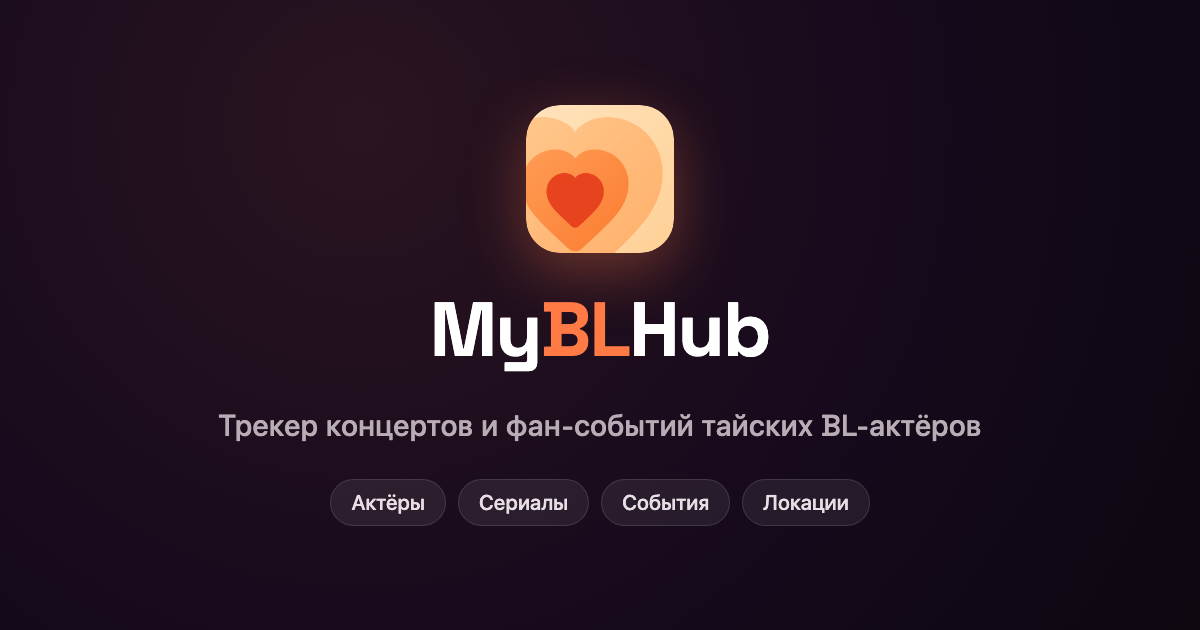
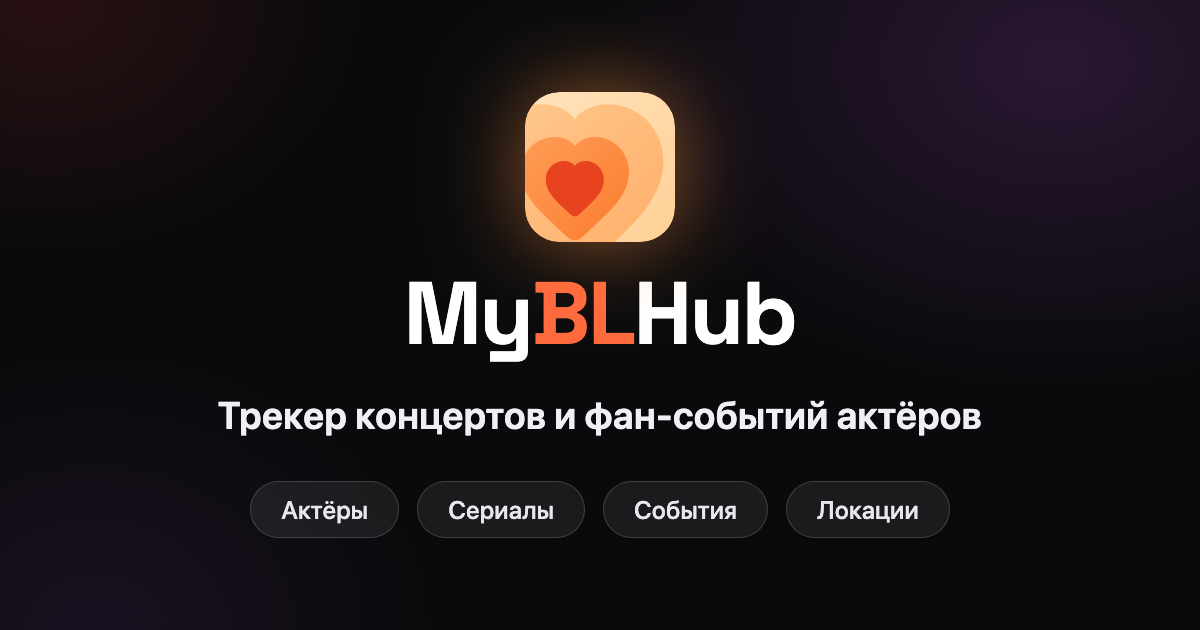
Актёры без «тайских», превью сайта без «BL»
Решение владельца: сайт про актёров и сериалы вообще, и ярлыки на людях
сужают аудиторию. «Концерты и фанмиты тайских актёров» стали «концертами
и фанмитами актёров» в обоих языках — события, вики, каталог,
юридические страницы. «Тайские» остаётся у сериалов и у страны: виза и
поездка в Таиланд никуда не делись.

Из превью ссылки на сайт убран «BL»: заголовок главной, описание,
манифест — и og-картинка, где старый текст был запечён прямо в PNG.
Перегенерирована в прежней стилистике; оранжевое «BL» в вордмарке
MyBLHub осталось — это бренд, а не ярлык.

После деплоя прогнать myblhub.com через @WebpageBot: Telegram держит
старую карточку в кэше долго.

diff --git a/src/lib/i18n/ru/events.ts b/src/lib/i18n/ru/events.ts
@@ -5,7 +5,7 @@ export const events: Dict["events"] = {
     list: {
         metaTitle: "Афиша",
         metaDescription:
-            "Афиша концертов, фанмитов и других событий тайских актёров: даты, площадки, составы.",
+            "Афиша концертов, фанмитов и других событий актёров: даты, площадки, составы.",
         eyebrow: "События",
         title: "Афиша",
         paywallFeature: "Афиша событий",
@@ -27,7 +27,7 @@ export const events: Dict["events"] = {
     calendar: {
         metaTitle: "Календарь событий",
         metaDescription:
-            "Календарь концертов и фанмитов тайских актёров, включая дни рождения и даты выхода серий.",
+            "Календарь концертов и фанмитов актёров, включая дни рождения и даты выхода серий.",
         backToEvents: "← Все события",
         title: "Календарь",
         paywallFeature: "Календарь",
@@ -57,7 +57,7 @@ export const events: Dict["events"] = {
     day: {
         metaTitle: (date: string) => `События ${date}`,
         metaDescription: (date: string) =>
-            `Концерты и фанмиты тайских актёров ${date}: расписание дня.`,
+            `Концерты и фанмиты актёров ${date}: расписание дня.`,
         metaTitleUnknown: "События дня",
         metaDescriptionUnknown: "Страница не найдена.",
         backToCalendar: "← К календарю",

diff --git a/src/lib/i18n/ru/legal.ts b/src/lib/i18n/ru/legal.ts
@@ -5,7 +5,7 @@ export const legal: Dict["legal"] = {
     about: {
       metaTitle: "О нас",
       metaDescription:
-        "MyBLHub — трекер концертов и фан-событий тайских актёров: афиша, профили артистов и сериалов, избранное и статусы просмотра.",
+        "MyBLHub — трекер концертов и фан-событий актёров: афиша, профили артистов и сериалов, избранное и статусы просмотра.",
     },
     terms: {
       metaTitle: "Условия использования",
@@ -131,7 +131,7 @@ export const legal: Dict["legal"] = {
 
       whatTitle: "Что это за сайт?",
       whatText:
-        "MyBLHub — трекер концертов и фан-событий тайских актёров: расписание событий, профили артистов и сериалов, избранное и статусы просмотра.",
+        "MyBLHub — трекер концертов и фан-событий актёров: расписание событий, профили артистов и сериалов, избранное и статусы просмотра.",
 
       favouritesTitle: "Как добавить кого-то в избранное?",
       favouritesText:

diff --git a/src/lib/i18n/en/events.ts b/src/lib/i18n/en/events.ts
@@ -3,7 +3,7 @@ export const events = {
     list: {
         metaTitle: "Events",
         metaDescription:
-            "Concerts, fan meets and other events with Thai actors: dates, venues and line-ups.",
+            "Concerts, fan meets and other events with the actors: dates, venues and line-ups.",
         eyebrow: "Events",
         title: "What's on",
         paywallFeature: "The event feed",
@@ -31,7 +31,7 @@ export const events = {
     calendar: {
         metaTitle: "Events calendar",
         metaDescription:
-            "A calendar of concerts and fan meets with Thai actors, birthdays and episode air dates included.",
+            "A calendar of the actors' concerts and fan meets, birthdays and episode air dates included.",
         backToEvents: "← All events",
         title: "Calendar",
         paywallFeature: "The calendar",
@@ -62,7 +62,7 @@ export const events = {
     day: {
         metaTitle: (date: string) => `Events on ${date}`,
         metaDescription: (date: string) =>
-            `Concerts and fan meets with Thai actors on ${date}: the schedule for the day.`,
+            `Concerts and fan meets with the actors on ${date}: the schedule for the day.`,
         metaTitleUnknown: "Events of the day",
         metaDescriptionUnknown: "Page not found.",
         backToCalendar: "← Back to the calendar",

diff --git a/src/lib/i18n/en/legal.ts b/src/lib/i18n/en/legal.ts
@@ -6,7 +6,7 @@ export const legal = {
     about: {
       metaTitle: "About",
       metaDescription:
-        "MyBLHub — a tracker of concerts and fan events for Thai actors: the event feed, artist and series profiles, favourites and watch statuses.",
+        "MyBLHub — a tracker of the actors' concerts and fan events: the event feed, artist and series profiles, favourites and watch statuses.",
     },
     terms: {
       metaTitle: "Terms of use",
@@ -132,7 +132,7 @@ export const legal = {
 
       whatTitle: "What is this site?",
       whatText:
-        "MyBLHub is a tracker of concerts and fan events for Thai actors: a schedule of events, artist and series profiles, favourites and watch statuses.",
+        "MyBLHub is a tracker of the actors' concerts and fan events: a schedule of events, artist and series profiles, favourites and watch statuses.",
 
       favouritesTitle: "How do I add someone to favourites?",
       favouritesText:

diff --git a/src/lib/i18n/ru/wiki.ts b/src/lib/i18n/ru/wiki.ts
@@ -3,7 +3,7 @@ import type { Dict } from "../en";
 export const wiki: Dict["wiki"] = {
   metaTitle: "Вики",
   metaDescription:
-    "Гайды и полезные статьи для фанатов тайских актёров: билеты, поездки, фанмиты.",
+    "Гайды и полезные статьи для фанатов актёров: билеты, поездки, фанмиты.",
   eyebrow: "Полезное",
   title: "Вики",
   intro:
@@ -15,7 +15,7 @@ export const wiki: Dict["wiki"] = {
     metaTitle: "Статья",
     metaNotFound: "Статья не найдена.",
     metaDescription: (title: string) =>
-      `${title}: пошаговый гайд для фанатов тайских актёров.`,
+      `${title}: пошаговый гайд для фанатов актёров.`,
     back: "← Помощь",
   },
 };

diff --git a/src/lib/i18n/en/wiki.ts b/src/lib/i18n/en/wiki.ts
@@ -5,7 +5,7 @@
 export const wiki = {
   metaTitle: "Wiki",
   metaDescription:
-    "Guides and useful articles for fans of Thai actors: tickets, trips, fan meets.",
+    "Guides and useful articles for fans of the actors: tickets, trips, fan meets.",
   eyebrow: "Useful",
   title: "Wiki",
   intro:
@@ -16,7 +16,7 @@ export const wiki = {
   article: {
     metaTitle: "Article",
     metaNotFound: "Article not found.",
-    metaDescription: (title: string) => `${title}: a step-by-step guide for fans of Thai actors.`,
+    metaDescription: (title: string) => `${title}: a step-by-step guide for fans of the actors.`,
     back: "← Help",
   },
 };

diff --git a/src/lib/i18n/ru/ui.ts b/src/lib/i18n/ru/ui.ts
@@ -20,6 +20,6 @@ export const ui: Dict["ui"] = {
     reportFailed: "Не удалось отправить",
 
     siteDescription:
-        "Трекер концертов, фанмитов и сериалов тайских актёров: афиша событий, календарь выхода серий, профили артистов и места съёмок.",
+        "Трекер концертов, фанмитов и сериалов актёров: афиша событий, календарь выхода серий, профили артистов и места съёмок.",
 
 };

diff --git a/src/lib/i18n/ru/catalog.ts b/src/lib/i18n/ru/catalog.ts
@@ -146,7 +146,7 @@ export const catalog: Dict["catalog"] = {
     artists: {
         metaTitle: "Артисты",
         metaDescription:
-            "Каталог тайских актёров и групп: профили, сериалы, концерты и фанмиты, дискография.",
+            "Каталог актёров и групп: профили, сериалы, концерты и фанмиты, дискография.",
         tabPerformers: "Актёры",
         tabBands: "Музыкальные группы",
         tabMascots: "Маскоты",

diff --git a/src/lib/i18n/en/ui.ts b/src/lib/i18n/en/ui.ts
@@ -27,7 +27,7 @@ export const ui = {
     // через pageMetadata — то есть уходит и в выдачу поиска, и в превью
     // ссылки в мессенджере.
     siteDescription:
-        "Track concerts, fan meets and series with Thai actors: the event feed, an episode calendar, artist profiles and filming locations.",
+        "Track the actors' concerts, fan meets and series: the event feed, an episode calendar, artist profiles and filming locations.",
 
 
 };

diff --git a/src/app/manifest.ts b/src/app/manifest.ts
@@ -14,7 +14,7 @@ export default function manifest(): MetadataRoute.Manifest {
   return {
     name: "MyBLHub — Thai BL events tracker",
     short_name: "MyBLHub",
-    description: "Concerts and fan events with Thai actors, all on one schedule",
+    description: "Concerts and fan events with the actors, all on one schedule",
     start_url: "/",
     display: "standalone",
     // Фактический фон сайта — старый фиолетовый #160a1c красил

diff --git a/src/lib/i18n/en/home.ts b/src/lib/i18n/en/home.ts
@@ -1,7 +1,7 @@
 export const home = {
     // С-1: заголовок главной с ключевыми словами — уходит в <title> и
     // в выдачу (суффикс « — MyBLHub» дописывает title.template).
-    metaTitle: "Thai BL series, actors and events: fan tracker",
+    metaTitle: "Thai series, actors and events: fan tracker",
     eyebrow: "Home",
     greeting: (name: string) => `Hi, ${name}`,
     upcoming: "What's next",

diff --git a/src/lib/i18n/ru/home.ts b/src/lib/i18n/ru/home.ts
@@ -2,7 +2,7 @@ import type { Dict } from "../en";
 import { pluralized } from "@/lib/plural";
 
 export const home: Dict["home"] = {
-    metaTitle: "Тайские BL-сериалы, актёры и события: фан-трекер",
+    metaTitle: "Тайские сериалы, артисты и события: фан-трекер",
     eyebrow: "Главная",
     greeting: (name: string) => `Привет, ${name}`,
     upcoming: "Что впереди",
